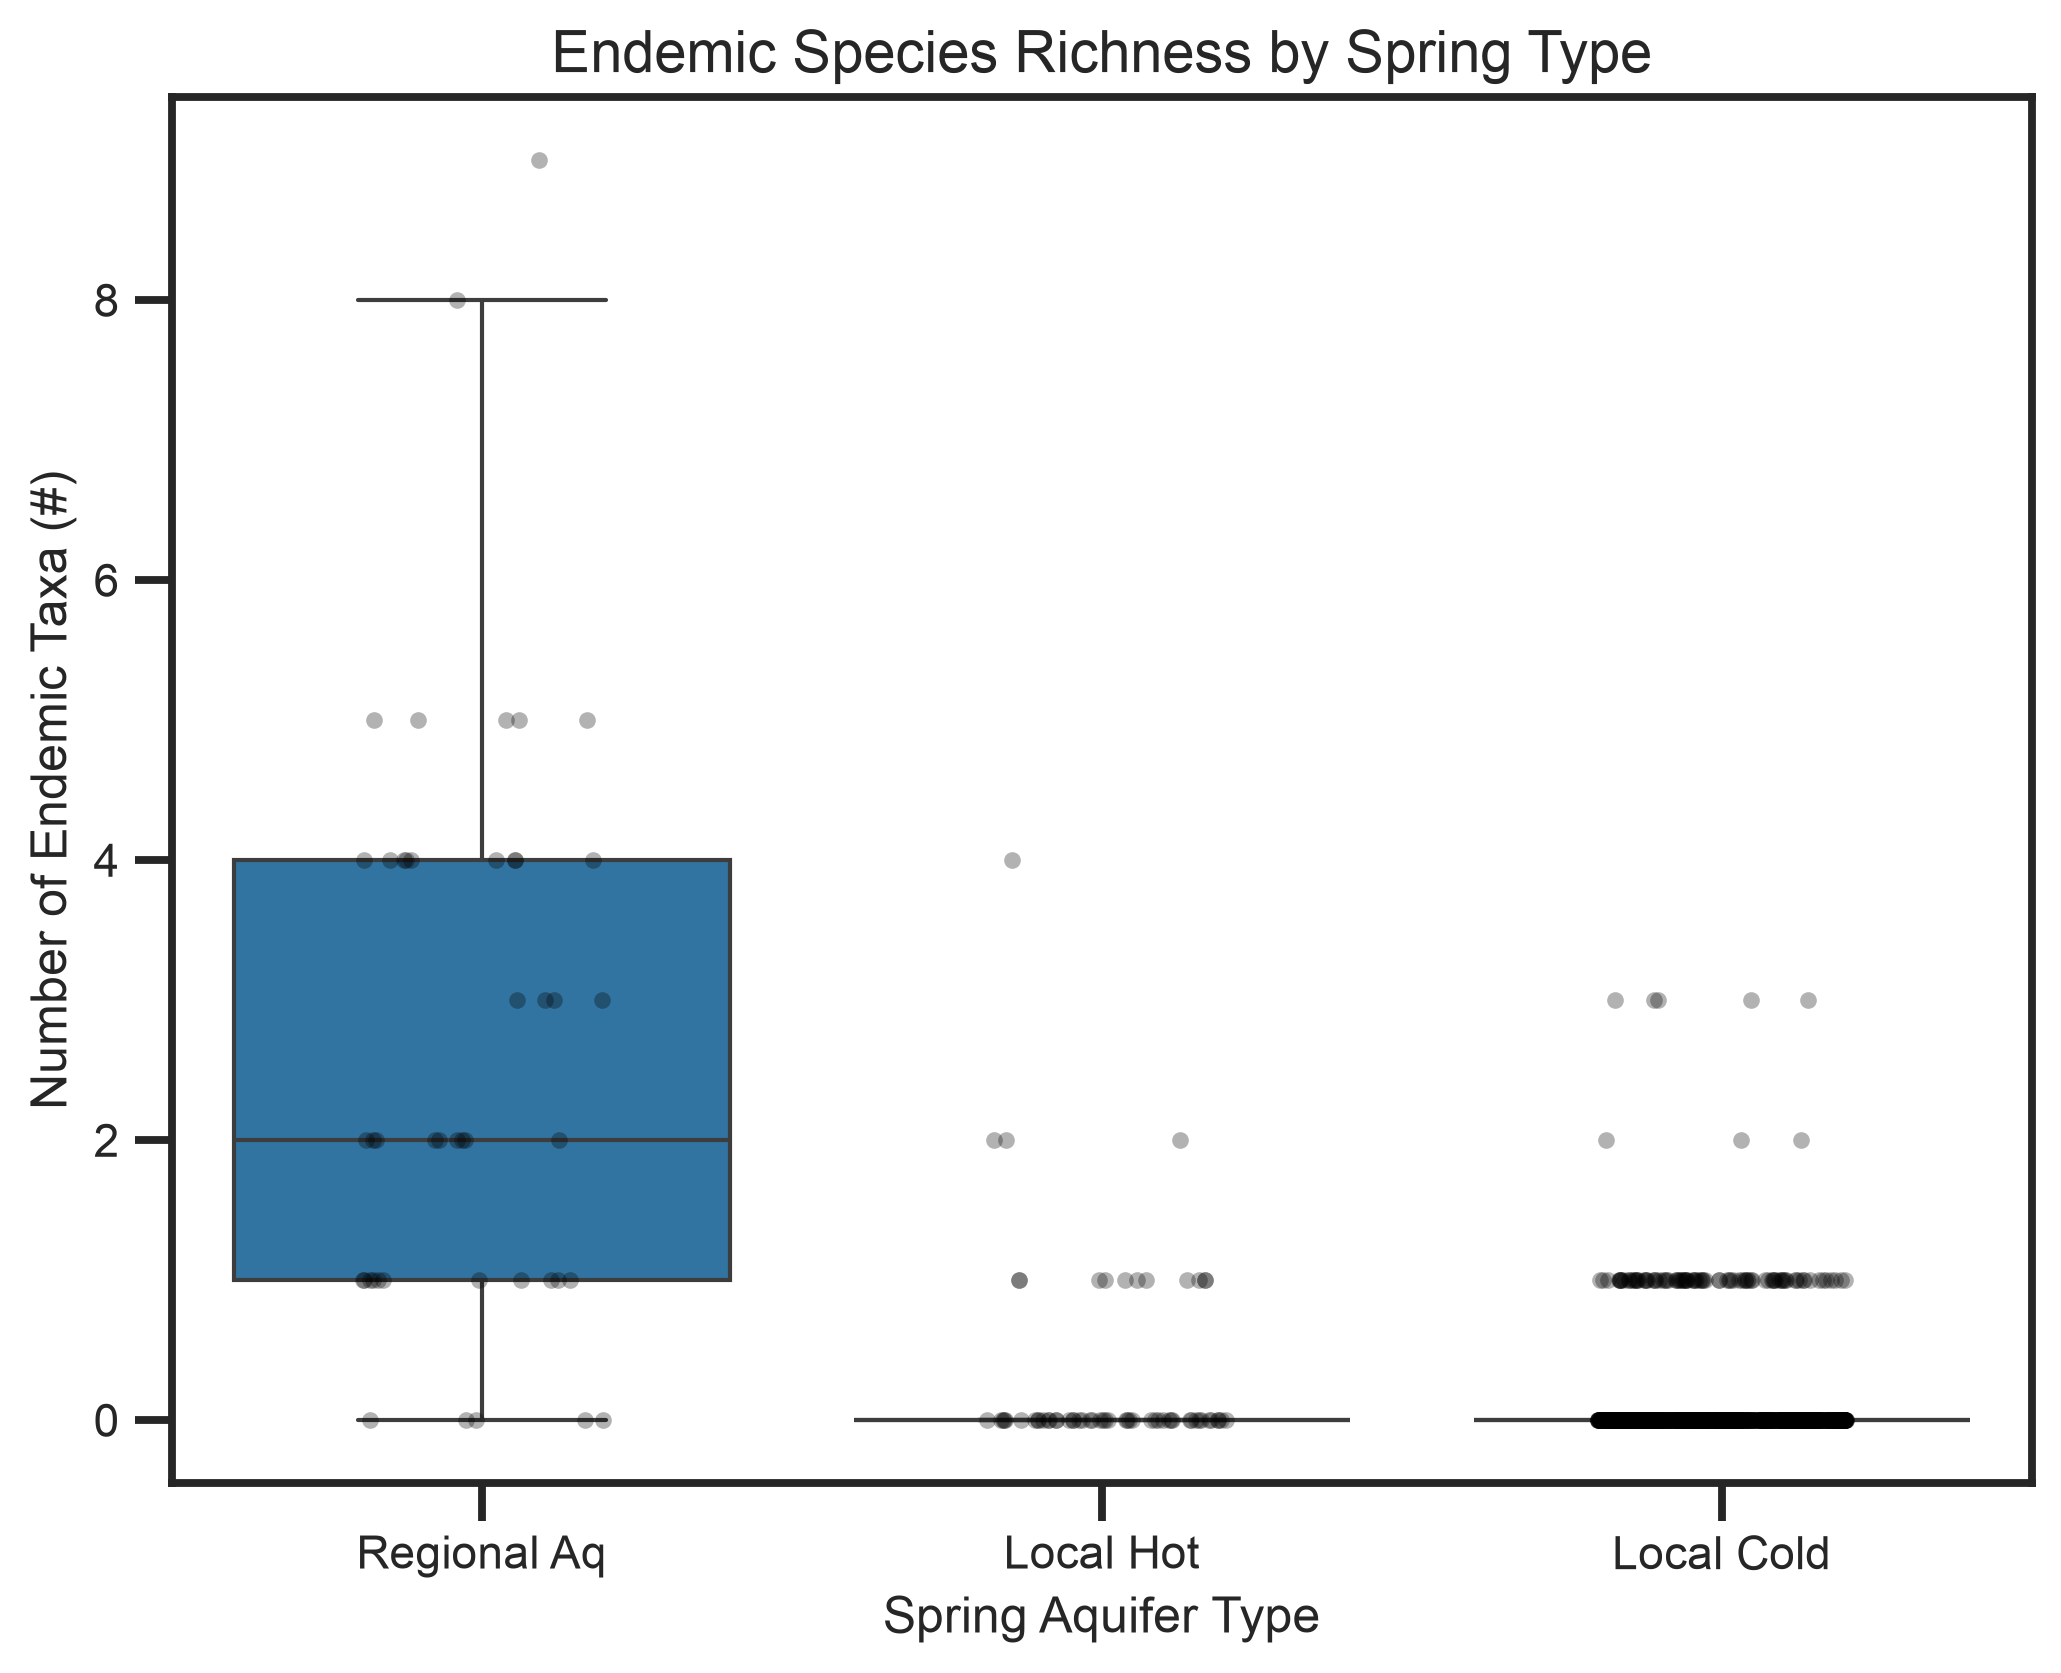
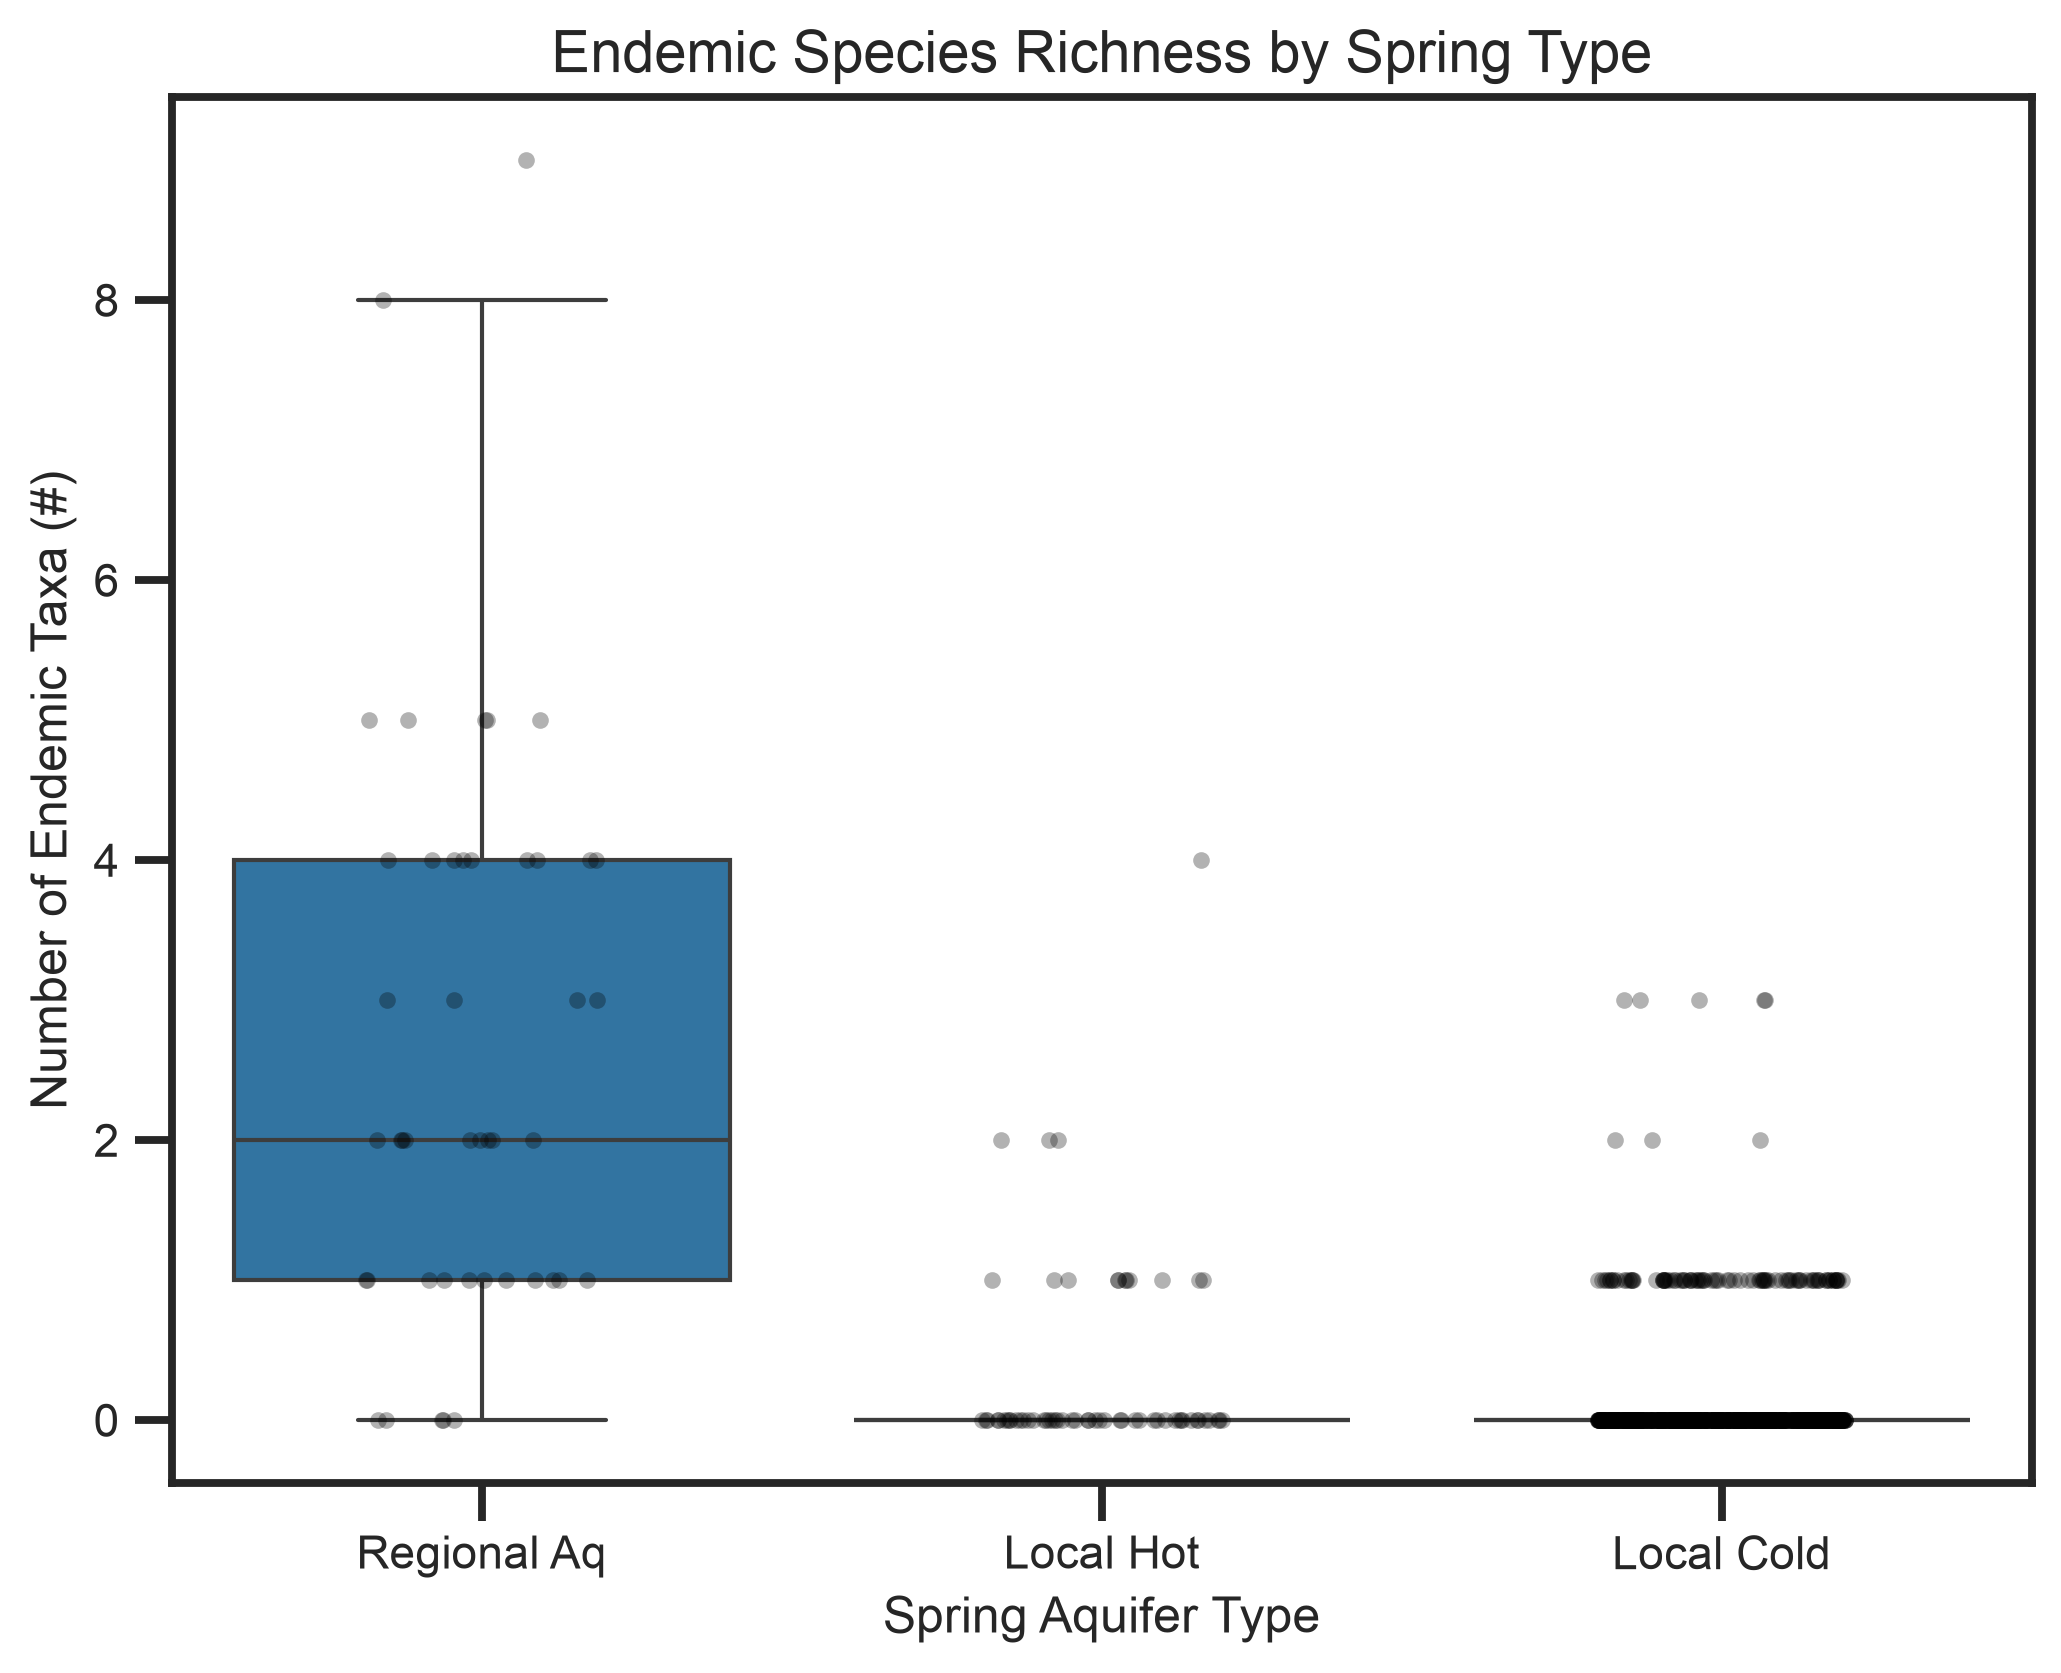
Add data pre-processing limitations and longitudinal medical record modeling proposal to future work

diff --git a/index.html b/index.html
@@ -1388,6 +1388,18 @@
 2. <strong>Multispectral UAV (Drone) Remote Sensing</strong>: Commercial drones equipped with high-resolution Thermal Infrared (TIR) and multispectral sensors can now map spring surface water areas, thermal buffering capacity, and riparian vegetation health from the air. This allows regional managers to detect spring shallowing, seasonal drying, or wild horse trampling damage across hundreds of remote springs in a single flight, without needing ground access.
 3. <strong>Smart Fencing &amp; IoT Telemetry</strong>: Modern wildlife exclusion fences are now integrated with low-power, satellite-connected (LoRaWAN/Starlink) tilt and vibration sensors. If cattle or wild horses breach a fence, land managers receive an automated GPS alert instantly, preventing weeks of unchecked trampling before the next physical inspection.
 4. <strong>Real-Time Aquifer Pressure Transducers</strong>: Solar-powered, satellite-telemetered pressure sensors placed in regional carbonate aquifer monitoring wells provide instantaneous flow and depth alerts, allowing immediate regulatory enforcement if municipal or agricultural groundwater pumping exceeds safe local recharge thresholds.</p>
+<h3 id="data-pre-processing-and-future-modeling-directions">Data Pre-processing and Future Modeling Directions</h3>
+<p>A key limitation of the foundational publication by Forrest et al. (2026) is the lack of in-depth discussion regarding data pre-processing steps. While standard normalization and square-root transformations are mentioned, the specific criteria for handling missing values, filtering outlier sites, and resolving spatial autocorrelation are not detailed. To advance desert spring modeling, future work should address these gaps and expand the analytical pipeline:</p>
+<ul>
+<li><strong>Gathering Granular, Time-Series Data</strong>: The current dataset represents a static snapshot of desert springs. Springs are highly dynamic systems subject to seasonal drying, flash floods, and decadal groundwater drawdown. Future efforts must establish continuous monitoring stations at high-value oases to collect high-frequency time-series data for chemical (conductance, pH, dissolved oxygen) and physical (water level, temperature fluctuations) variables.</li>
+<li><strong>Longitudinal "Medical Record" Style Modeling</strong>: <ul>
+<li>Rather than analyzing springs as isolated, static data points, we propose an inventive approach that repurposes the original authors' underlying analysis notebooks to treat the database like <strong>electronic medical health records</strong>.</li>
+<li>Under this paradigm, each spring is treated as an individual "patient" with a unique ID. Multi-decadal survey entries function as longitudinal patient charts. </li>
+<li>Riparian bank cover, pool depth, and dissolved chemistry represent "vital signs." Terrestrial fencing, channel dredging, and water extraction diversions are logged as "clinical interventions." Invasions by non-native crayfish or cichlids and severe benthic siltation are treated as "chronic comorbidities."</li>
+<li>By applying clinical survival analysis (such as Cox Proportional Hazards models) and multi-state Markov transition models to these "spring charts," ecologists can predict the probability of a spring "dying" (suffering complete biological collapse or endemic extirpation) based on its environmental history, the sequence of human disturbances, and the timing of management actions. This medical-history analogy transforms static surveys into predictive, patient-style triage tools for conservation managers.</li>
+</ul>
+</li>
+</ul>
 <h3 id="budget-proposal-3-year-implementation-plan-20262028">Budget Proposal: 3-Year Implementation Plan (2026–2028)</h3>
 <p>To implement these recommendations across the 1121 springs of the Great Basin and Mojave Deserts, we propose a targeted 3-Year budget focusing on the high-value Regional Aquifer and Local Refugia sites:</p>
 <table>

diff --git a/publication.html b/publication.html
@@ -1388,6 +1388,18 @@
 2. <strong>Multispectral UAV (Drone) Remote Sensing</strong>: Commercial drones equipped with high-resolution Thermal Infrared (TIR) and multispectral sensors can now map spring surface water areas, thermal buffering capacity, and riparian vegetation health from the air. This allows regional managers to detect spring shallowing, seasonal drying, or wild horse trampling damage across hundreds of remote springs in a single flight, without needing ground access.
 3. <strong>Smart Fencing &amp; IoT Telemetry</strong>: Modern wildlife exclusion fences are now integrated with low-power, satellite-connected (LoRaWAN/Starlink) tilt and vibration sensors. If cattle or wild horses breach a fence, land managers receive an automated GPS alert instantly, preventing weeks of unchecked trampling before the next physical inspection.
 4. <strong>Real-Time Aquifer Pressure Transducers</strong>: Solar-powered, satellite-telemetered pressure sensors placed in regional carbonate aquifer monitoring wells provide instantaneous flow and depth alerts, allowing immediate regulatory enforcement if municipal or agricultural groundwater pumping exceeds safe local recharge thresholds.</p>
+<h3 id="data-pre-processing-and-future-modeling-directions">Data Pre-processing and Future Modeling Directions</h3>
+<p>A key limitation of the foundational publication by Forrest et al. (2026) is the lack of in-depth discussion regarding data pre-processing steps. While standard normalization and square-root transformations are mentioned, the specific criteria for handling missing values, filtering outlier sites, and resolving spatial autocorrelation are not detailed. To advance desert spring modeling, future work should address these gaps and expand the analytical pipeline:</p>
+<ul>
+<li><strong>Gathering Granular, Time-Series Data</strong>: The current dataset represents a static snapshot of desert springs. Springs are highly dynamic systems subject to seasonal drying, flash floods, and decadal groundwater drawdown. Future efforts must establish continuous monitoring stations at high-value oases to collect high-frequency time-series data for chemical (conductance, pH, dissolved oxygen) and physical (water level, temperature fluctuations) variables.</li>
+<li><strong>Longitudinal "Medical Record" Style Modeling</strong>: <ul>
+<li>Rather than analyzing springs as isolated, static data points, we propose an inventive approach that repurposes the original authors' underlying analysis notebooks to treat the database like <strong>electronic medical health records</strong>.</li>
+<li>Under this paradigm, each spring is treated as an individual "patient" with a unique ID. Multi-decadal survey entries function as longitudinal patient charts. </li>
+<li>Riparian bank cover, pool depth, and dissolved chemistry represent "vital signs." Terrestrial fencing, channel dredging, and water extraction diversions are logged as "clinical interventions." Invasions by non-native crayfish or cichlids and severe benthic siltation are treated as "chronic comorbidities."</li>
+<li>By applying clinical survival analysis (such as Cox Proportional Hazards models) and multi-state Markov transition models to these "spring charts," ecologists can predict the probability of a spring "dying" (suffering complete biological collapse or endemic extirpation) based on its environmental history, the sequence of human disturbances, and the timing of management actions. This medical-history analogy transforms static surveys into predictive, patient-style triage tools for conservation managers.</li>
+</ul>
+</li>
+</ul>
 <h3 id="budget-proposal-3-year-implementation-plan-20262028">Budget Proposal: 3-Year Implementation Plan (2026–2028)</h3>
 <p>To implement these recommendations across the 1121 springs of the Great Basin and Mojave Deserts, we propose a targeted 3-Year budget focusing on the high-value Regional Aquifer and Local Refugia sites:</p>
 <table>

diff --git a/results.md b/results.md
@@ -653,6 +653,17 @@ In **2026**, several critical technological and methodological advancements have
 3. **Smart Fencing & IoT Telemetry**: Modern wildlife exclusion fences are now integrated with low-power, satellite-connected (LoRaWAN/Starlink) tilt and vibration sensors. If cattle or wild horses breach a fence, land managers receive an automated GPS alert instantly, preventing weeks of unchecked trampling before the next physical inspection.
 4. **Real-Time Aquifer Pressure Transducers**: Solar-powered, satellite-telemetered pressure sensors placed in regional carbonate aquifer monitoring wells provide instantaneous flow and depth alerts, allowing immediate regulatory enforcement if municipal or agricultural groundwater pumping exceeds safe local recharge thresholds.
 
+### Data Pre-processing and Future Modeling Directions
+
+A key limitation of the foundational publication by Forrest et al. (2026) is the lack of in-depth discussion regarding data pre-processing steps. While standard normalization and square-root transformations are mentioned, the specific criteria for handling missing values, filtering outlier sites, and resolving spatial autocorrelation are not detailed. To advance desert spring modeling, future work should address these gaps and expand the analytical pipeline:
+
+*   **Gathering Granular, Time-Series Data**: The current dataset represents a static snapshot of desert springs. Springs are highly dynamic systems subject to seasonal drying, flash floods, and decadal groundwater drawdown. Future efforts must establish continuous monitoring stations at high-value oases to collect high-frequency time-series data for chemical (conductance, pH, dissolved oxygen) and physical (water level, temperature fluctuations) variables.
+*   **Longitudinal "Medical Record" Style Modeling**: 
+    - Rather than analyzing springs as isolated, static data points, we propose an inventive approach that repurposes the original authors' underlying analysis notebooks to treat the database like **electronic medical health records**.
+    - Under this paradigm, each spring is treated as an individual "patient" with a unique ID. Multi-decadal survey entries function as longitudinal patient charts. 
+    - Riparian bank cover, pool depth, and dissolved chemistry represent "vital signs." Terrestrial fencing, channel dredging, and water extraction diversions are logged as "clinical interventions." Invasions by non-native crayfish or cichlids and severe benthic siltation are treated as "chronic comorbidities."
+    - By applying clinical survival analysis (such as Cox Proportional Hazards models) and multi-state Markov transition models to these "spring charts," ecologists can predict the probability of a spring "dying" (suffering complete biological collapse or endemic extirpation) based on its environmental history, the sequence of human disturbances, and the timing of management actions. This medical-history analogy transforms static surveys into predictive, patient-style triage tools for conservation managers.
+
 ### Budget Proposal: 3-Year Implementation Plan (2026–2028)
 
 To implement these recommendations across the 1121 springs of the Great Basin and Mojave Deserts, we propose a targeted 3-Year budget focusing on the high-value Regional Aquifer and Local Refugia sites: